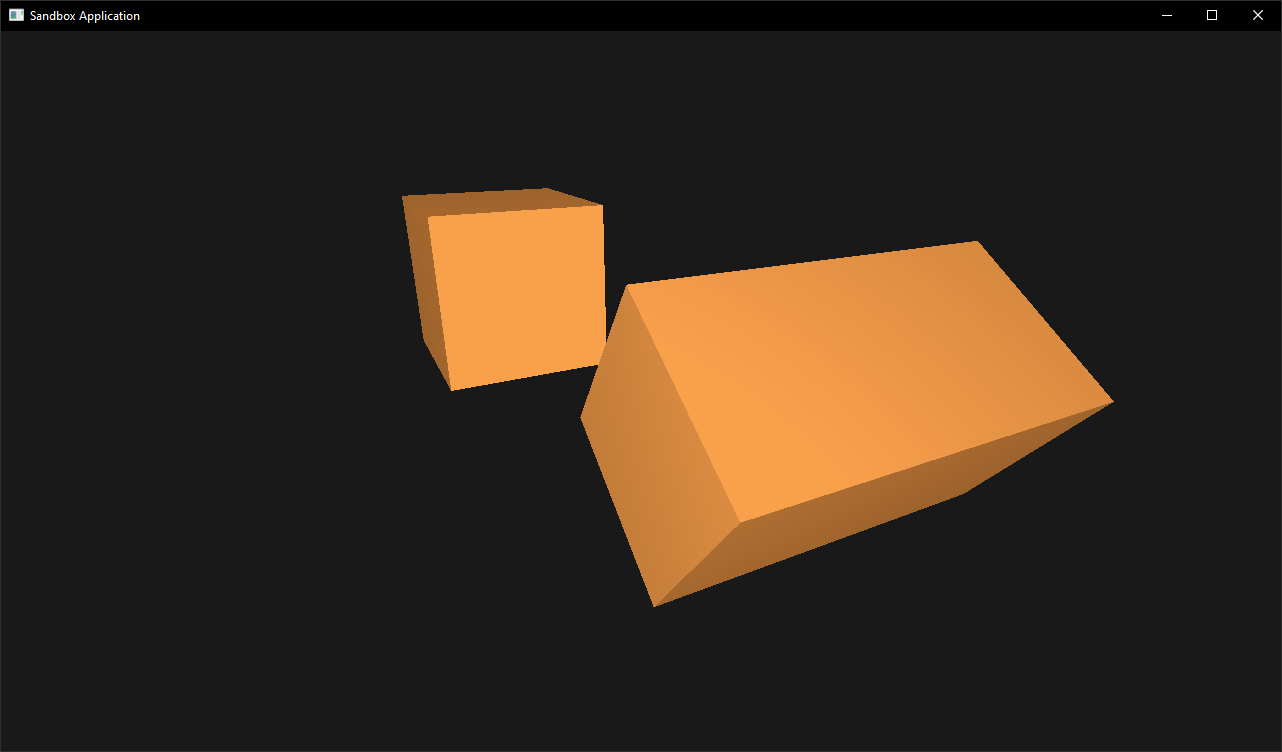
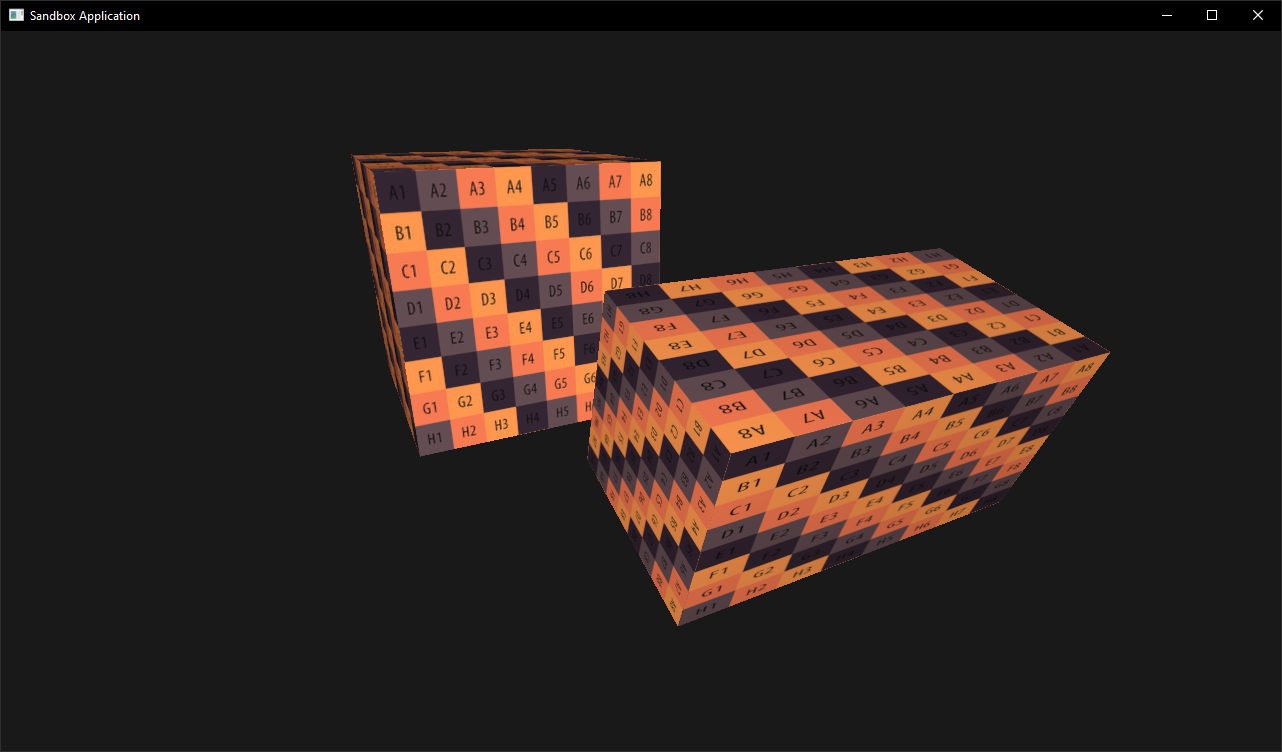
docs: update the sandbox screenshot to show texture mapping support

Changed region(s): [[0.2496, 0.1835, 0.8736, 0.8258]]

diff --git a/sandbox/source/sandbox.c b/sandbox/source/sandbox.c
@@ -97,7 +97,7 @@ f32 cube_scale_speed = 2.0f;
 f32 cube_position_speed = 1.0f;
 f32 cube_rotation_angle = 45.0f;
 
-vector3f32_t cube_scale = {{1.0f, 1.0f, 1.0f}};
+vector3f32_t cube_scale = {{1.5f, 1.5f, 1.5f}};
 vector3f32_t cube_position = {{0.0f, 0.0f, -2.0f}};
 quaternionf32_t cube_rotation = {{0.0f, 0.0f, 0.0f, 1.0f}};
 
